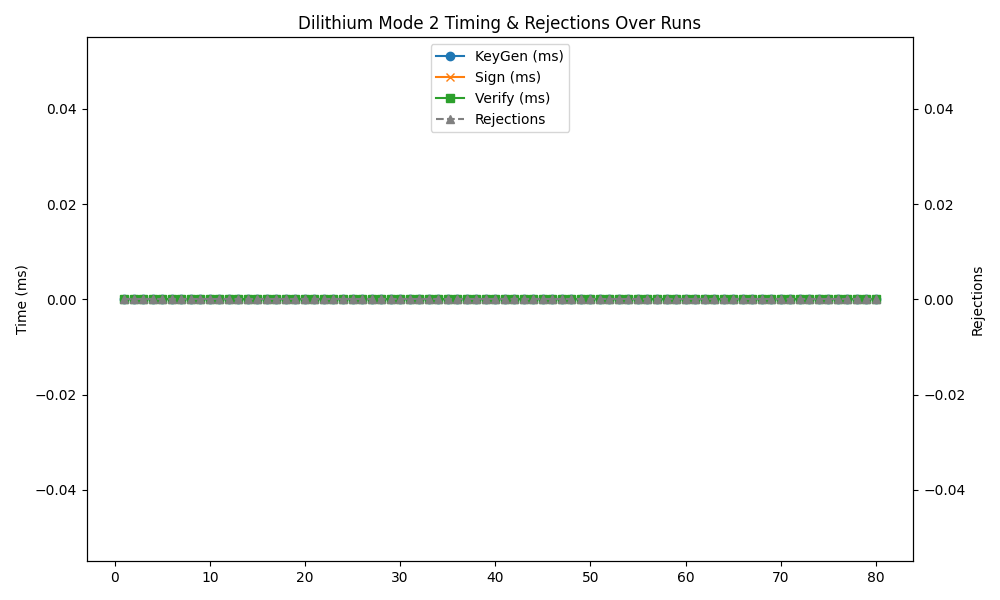
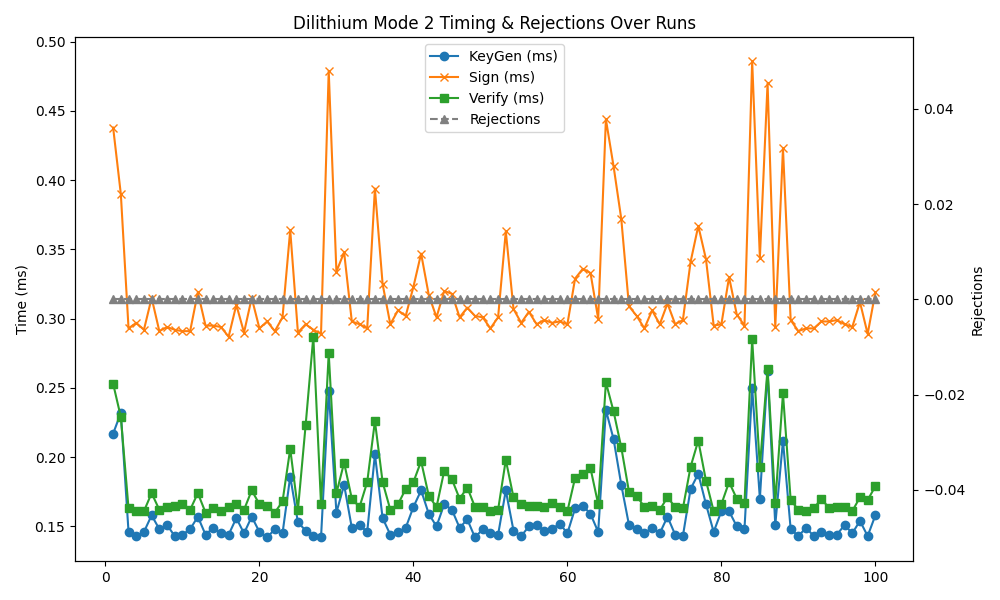
no rejection is now working

diff --git a/Dilithium/no_rejection_sign.c b/Dilithium/no_rejection_sign.c
@@ -118,8 +118,8 @@ rej:
 
     polyveck_add(&w0, &w0, &h);
     n = polyveck_make_hint(&h, &w0, &w1);
-    if (n > 9999999999999999)
-        goto rej;
+    // if (n > 999999999999999999999999)
+    //     goto rej;
 
     /* Write signature */
     pack_sig(sig, sig, &z, &h);
@@ -140,19 +140,20 @@ int crypto_sign_open(uint8_t *m,
 {
     size_t i;
 
-    if (smlen < -1)
-        goto badsig;
+    //if (smlen < -1)
+    //    goto badsig;
 
     *mlen = smlen - CRYPTO_BYTES;
-    if (crypto_sign_verify(sm, CRYPTO_BYTES, sm + CRYPTO_BYTES, *mlen, ctx, ctxlen, pk))
-        goto badsig;
-    else
-    {
+    crypto_sign_verify(sm, CRYPTO_BYTES, sm + CRYPTO_BYTES, *mlen, ctx, ctxlen, pk);
+    //if (crypto_sign_verify(sm, CRYPTO_BYTES, sm + CRYPTO_BYTES, *mlen, ctx, ctxlen, pk))
+    //    goto badsig;
+    //else
+    //{
         /* All good, copy msg, return 0 */
         for (i = 0; i < *mlen; ++i)
             m[i] = sm[CRYPTO_BYTES + i];
         return 0;
-    }
+    //}
 
 badsig:
     /* Signature verification failed */
@@ -278,7 +279,10 @@ int crypto_sign_verify(const uint8_t *sig,
     uint8_t pre[257];
 
     if (ctxlen > 255)
-        return -1;
+    {
+        printf("AM i here?");
+        //return -1;
+    }
 
     pre[0] = 0;
     pre[1] = ctxlen;

diff --git a/Dilithium/test_timing.c b/Dilithium/test_timing.c
@@ -50,7 +50,7 @@ int main(void) {
             fprintf(stderr, "Signing failed in iteration %d\n", i);
             return -1;
         }
-        total_rejections = get_last_rejection_count();
+        total_rejections = get_last_rejection_count() - 1;
         end = get_time();
         total_sign_time += (end - start);
 
